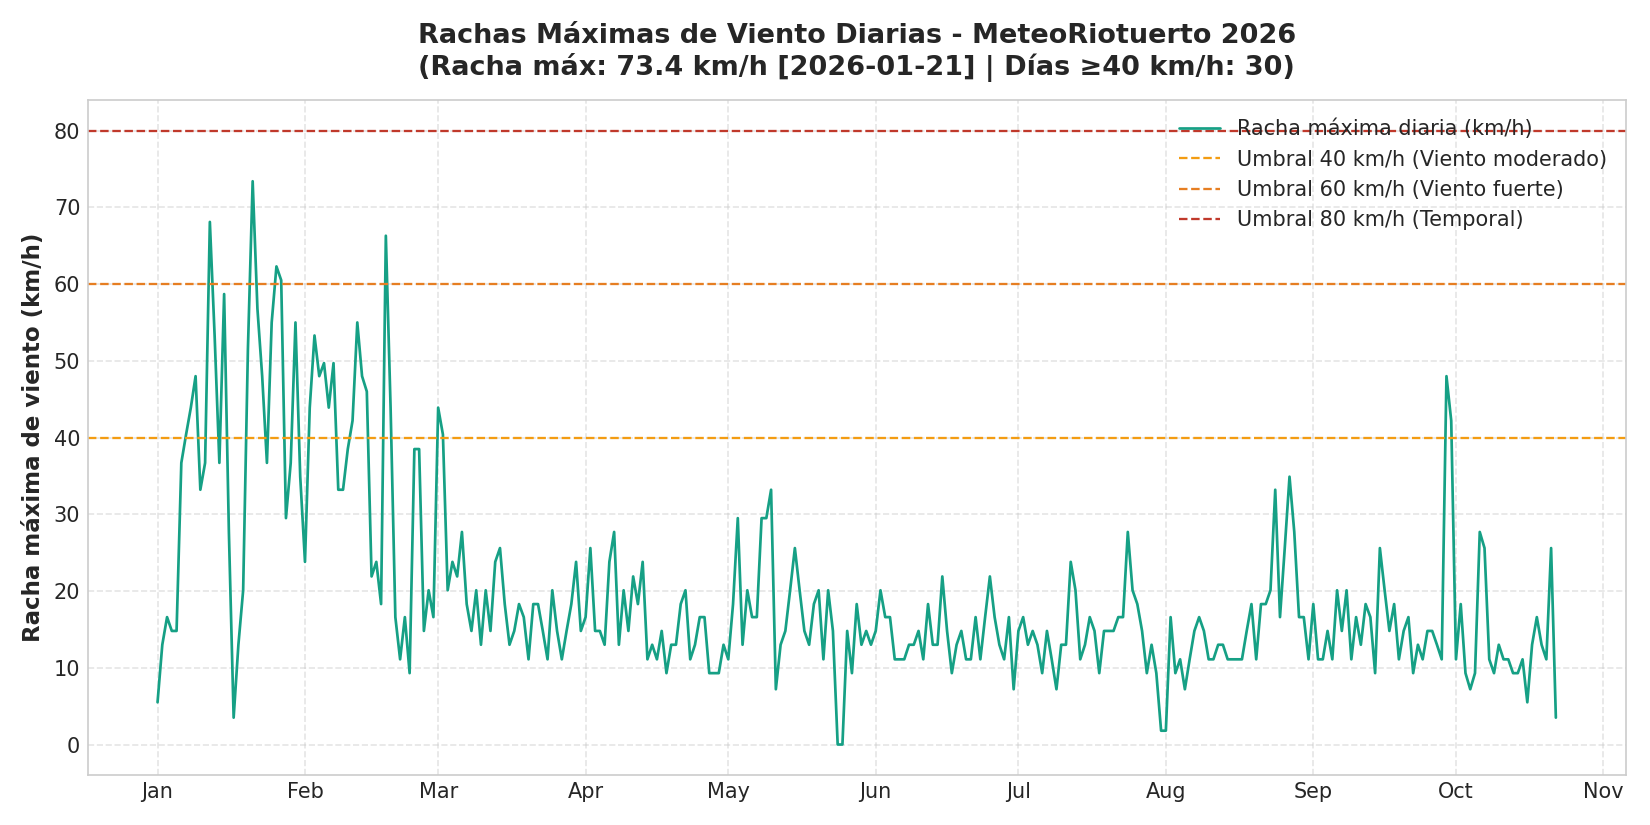
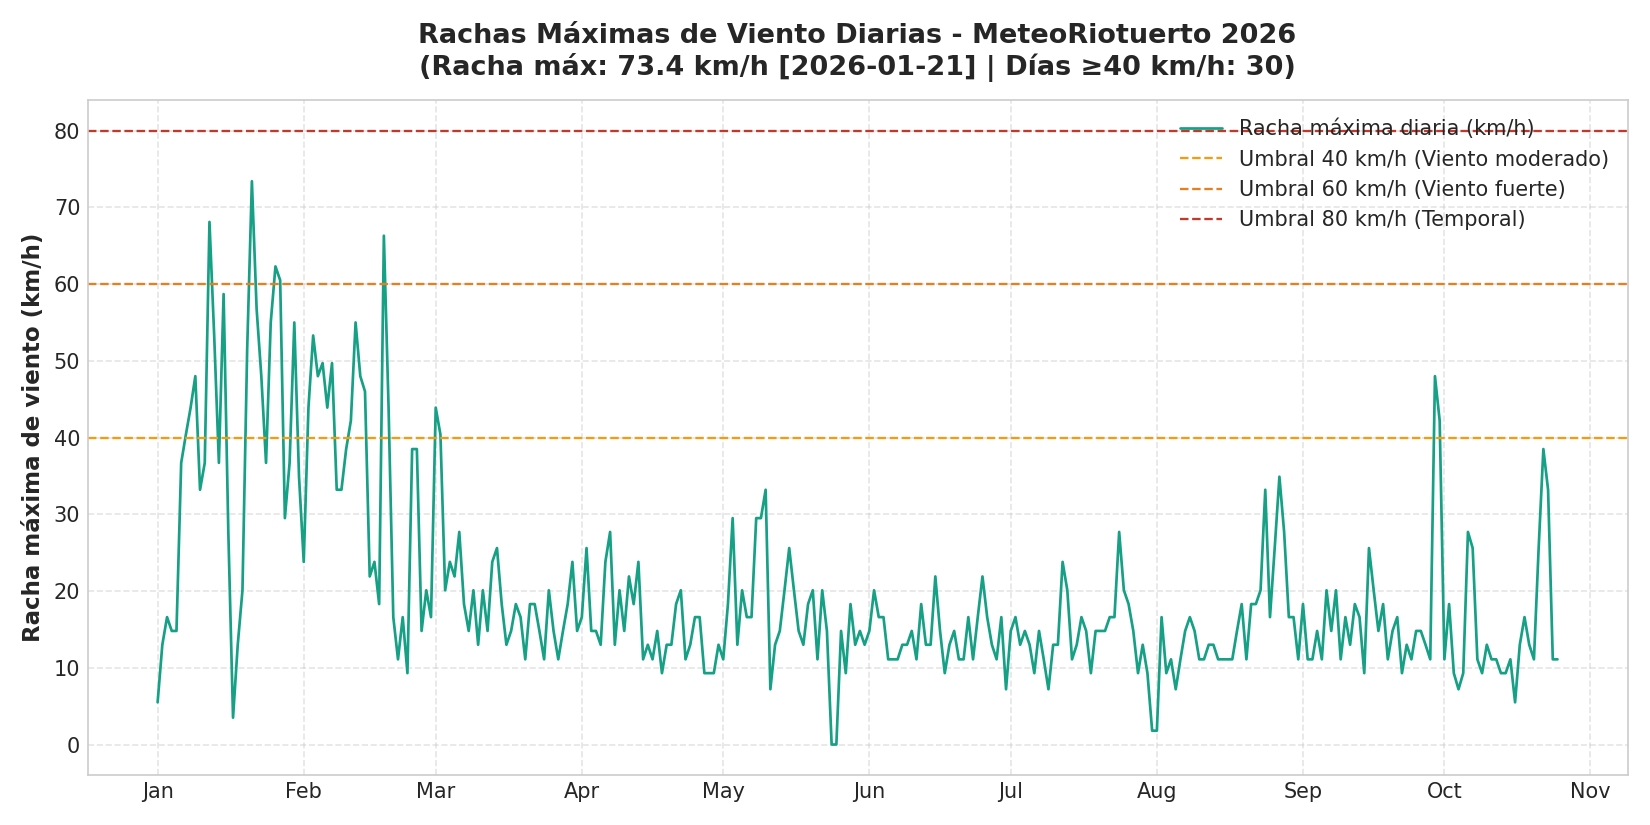
data(2026): actualización diaria automática de registros meteorológicos [2026-10-25]

diff --git a/2026/README.md b/2026/README.md
@@ -3,11 +3,11 @@
 **Barrio de Arriba, Riotuerto (Cantabria, España)**
 
 > [!IMPORTANT]
-> **Datos parciales y provisionales:** El año 2026 se encuentra actualmente en curso. Las estadísticas, gráficos y acumulados reflejados en este almanaque corresponden al periodo observado hasta la última actualización (2026-10-22) y tienen carácter estrictamente provisional hasta el cierre definitivo del año natural.
+> **Datos parciales y provisionales:** El año 2026 se encuentra actualmente en curso. Las estadísticas, gráficos y acumulados reflejados en este almanaque corresponden al periodo observado hasta la última actualización (2026-10-25) y tienen carácter estrictamente provisional hasta el cierre definitivo del año natural.
 
 ## 📝 Descripción sinóptica
 
-El año 2026 en la estación meteorológica automática de Barrio de Arriba (Riotuerto) registra una temperatura media acumulada de **15.8 ºC** y una precipitación total de **1497.1 mm** distribuida en **151 días de lluvia apreciable (≥0,2 mm)**.
+El año 2026 en la estación meteorológica automática de Barrio de Arriba (Riotuerto) registra una temperatura media acumulada de **15.8 ºC** y una precipitación total de **1504.3 mm** distribuida en **154 días de lluvia apreciable (≥0,2 mm)**.
 
 * **Temperaturas extremas:** La máxima absoluta alcanzó los **41.3 ºC** (2026-06-24), mientras que la mínima absoluta descendió hasta **-1.4 ºC** (2026-01-04). Se registraron **4 noches tropicales (mínima ≥20 ºC)**.
 * **Régimen pluviométrico:** El día más lluvioso dejó **83.8 mm** (2026-10-07). El mes con mayor precipitación fue **Marzo** con **302.0 mm**, mientras que el más seco fue **Agosto** (56.3 mm).
@@ -54,9 +54,9 @@ El año 2026 en la estación meteorológica automática de Barrio de Arriba (Rio
 | | Calor (>30 ºC) | 31 días | |
 | | Calor intenso (>35 ºC) | 11 días | |
 | | Calor extremo (>40 ºC) | 1 días | |
-| **☔ Precipitaciones** | **Acumulado total** | **1497.1 mm** | |
-| | Días de lluvia (≥0,2 mm) | 151 días | |
-| | Días de lluvia (≥1 mm) | 111 días | |
+| **☔ Precipitaciones** | **Acumulado total** | **1504.3 mm** | |
+| | Días de lluvia (≥0,2 mm) | 154 días | |
+| | Días de lluvia (≥1 mm) | 112 días | |
 | | Días de lluvia (≥10 mm) | 46 días | |
 | | Días de lluvia (≥30 mm) | 8 días | |
 | | Máxima diaria | 83.8 mm | 2026-10-07 |
@@ -80,4 +80,4 @@ El año 2026 en la estación meteorológica automática de Barrio de Arriba (Rio
 | **Julio** | 21.4 | 39.2 | 12.4 | 58.5 | 27.7 |
 | **Agosto** | 20.8 | 33.3 | 11.6 | 56.3 | 34.9 |
 | **Septiembre** | 18.7 | 36.2 | 9.4 | 81.7 | 48.0 |
-| **Octubre** | 15.4 | 28.3 | 4.0 | 197.6 | 27.7 |
+| **Octubre** | 15.2 | 28.3 | 4.0 | 204.8 | 38.5 |
